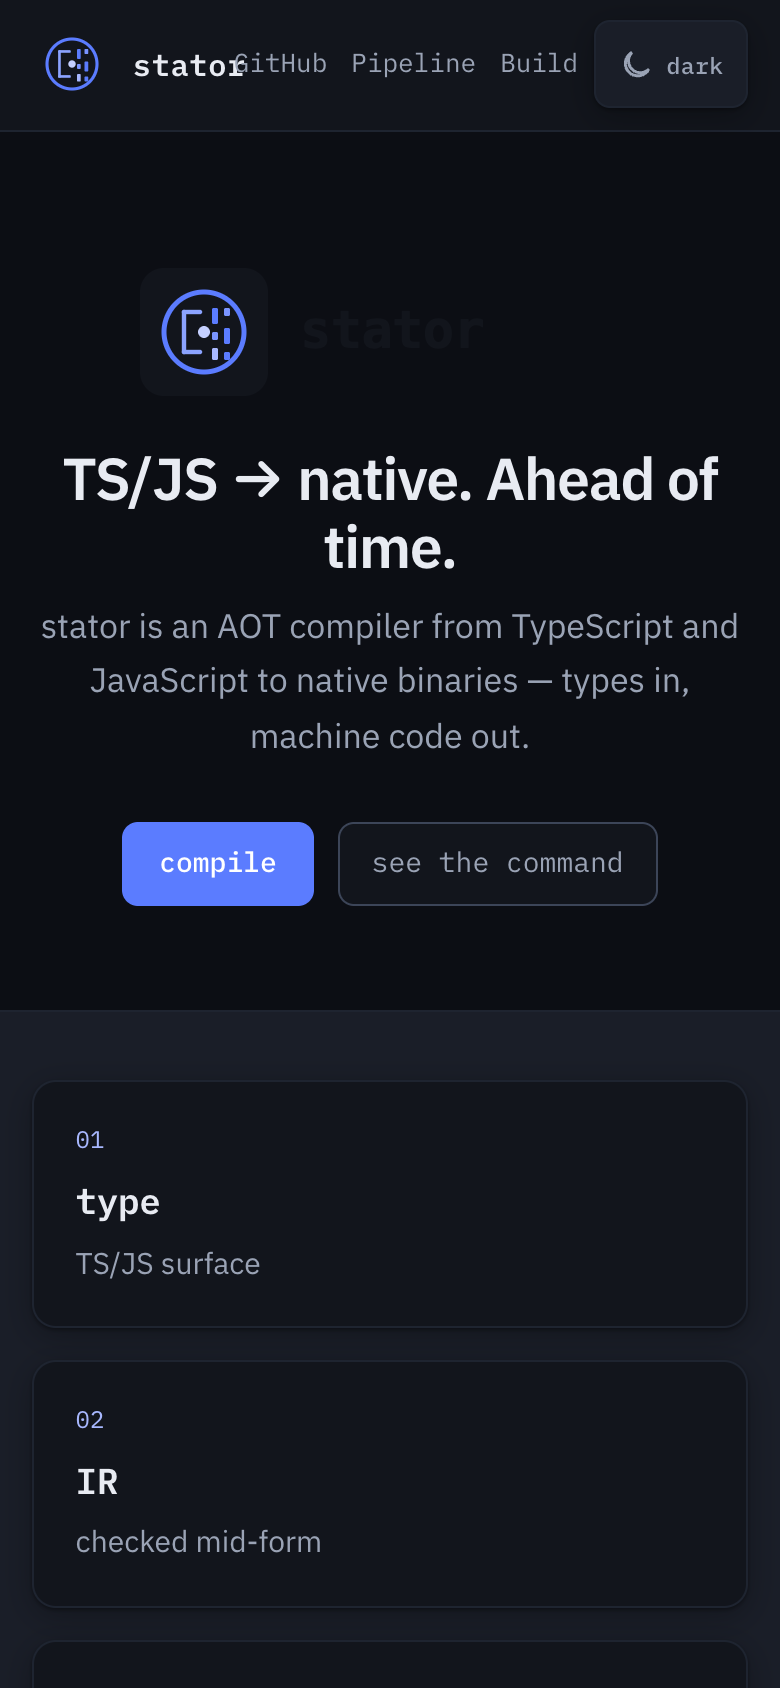
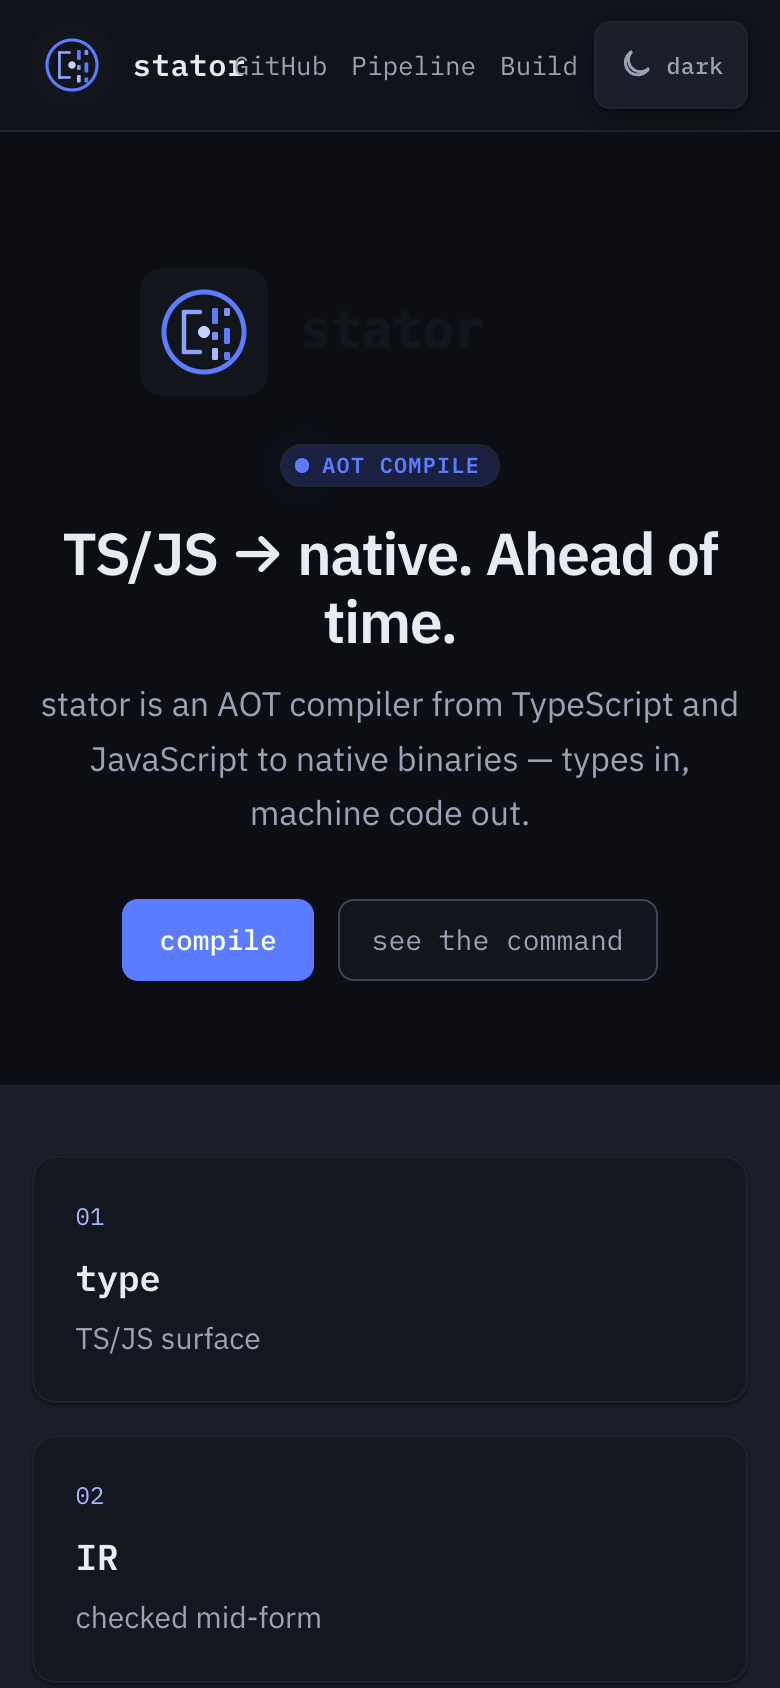
docs: landing-v1 screenshots + nerd+ai+glass+flat lock in DESIGN

diff --git a/docs/brand/tokens.css b/docs/brand/tokens.css
@@ -1,6 +1,9 @@
+/* stator brand tokens — keep site/src/styles/tokens.css in sync. */
 /* stator — electric indigo-blue + cool gray */
+/* Explicit light + default :root (before boot / no preference). */
 :root,
 [data-theme="light"] {
+  color-scheme: light;
   --st-bg: #F5F6F9;
   --st-bg-elevated: #FFFFFF;
   --st-surface-1: #EBEDF2;
@@ -23,6 +26,12 @@
   --st-code-bg: #12151C;
   --st-code-fg: #A8B8FF;
   --st-shadow: 0 1px 2px rgba(18, 21, 28, 0.06), 0 4px 12px rgba(18, 21, 28, 0.04);
+  --st-focus-ring: 0 0 0 3px rgba(91, 124, 255, 0.4);
+  --st-glass-fill: rgba(255, 255, 255, 0.72);
+  --st-glass-border: rgba(216, 220, 230, 0.9);
+  --st-elev-1: 0 1px 2px rgba(18, 21, 28, 0.04), 0 1px 3px rgba(18, 21, 28, 0.06);
+  --st-elev-2: 0 4px 12px rgba(18, 21, 28, 0.06), 0 1px 3px rgba(18, 21, 28, 0.04);
+  --st-accent-glow: 0 0 0 3px var(--st-accent-soft), 0 0 18px rgba(91, 124, 255, 0.25);
   --st-radius: 8px;
   --st-radius-lg: 12px;
   --st-font-mono: "IBM Plex Mono", "JetBrains Mono", ui-monospace, monospace;
@@ -30,6 +39,7 @@
 }
 
 [data-theme="dark"] {
+  color-scheme: dark;
   --st-bg: #0C0E14;
   --st-bg-elevated: #12151C;
   --st-surface-1: #1A1E28;
@@ -52,4 +62,81 @@
   --st-code-bg: #080A10;
   --st-code-fg: #C5D0FF;
   --st-shadow: 0 1px 2px rgba(0, 0, 0, 0.35), 0 4px 16px rgba(0, 0, 0, 0.28);
+  --st-focus-ring: 0 0 0 3px rgba(91, 124, 255, 0.45);
+  --st-glass-fill: rgba(18, 21, 28, 0.72);
+  --st-glass-border: rgba(30, 36, 48, 0.9);
+  --st-elev-1: 0 1px 2px rgba(0, 0, 0, 0.35), 0 1px 3px rgba(0, 0, 0, 0.25);
+  --st-elev-2: 0 4px 14px rgba(0, 0, 0, 0.4), 0 1px 3px rgba(0, 0, 0, 0.3);
+  --st-accent-glow: 0 0 0 3px var(--st-accent-soft), 0 0 20px rgba(91, 124, 255, 0.32);
+}
+
+/* System preference when data-theme is "system" or unset (before FOUC boot). */
+@media (prefers-color-scheme: dark) {
+  :root:not([data-theme="light"]):not([data-theme="dark"]),
+  [data-theme="system"] {
+    color-scheme: dark;
+    --st-bg: #0C0E14;
+    --st-bg-elevated: #12151C;
+    --st-surface-1: #1A1E28;
+    --st-surface-2: #242936;
+    --st-surface-3: #303848;
+    --st-border: #3C4558;
+    --st-border-hairline: #1E2430;
+    --st-fg: #E8EBF2;
+    --st-fg-muted: #9AA3B5;
+    --st-fg-subtle: #646E82;
+    --st-accent: #5B7CFF;
+    --st-accent-hover: #8BA3FF;
+    --st-accent-muted: #3D5CE5;
+    --st-accent-soft: #1A2040;
+    --st-cool: #A8B8FF;
+    --st-success: #5BBF7A;
+    --st-warning: #E8A05C;
+    --st-danger: #E07068;
+    --st-info: #7A94FF;
+    --st-code-bg: #080A10;
+    --st-code-fg: #C5D0FF;
+    --st-shadow: 0 1px 2px rgba(0, 0, 0, 0.35), 0 4px 16px rgba(0, 0, 0, 0.28);
+    --st-focus-ring: 0 0 0 3px rgba(91, 124, 255, 0.45);
+  --st-glass-fill: rgba(18, 21, 28, 0.72);
+  --st-glass-border: rgba(30, 36, 48, 0.9);
+  --st-elev-1: 0 1px 2px rgba(0, 0, 0, 0.35), 0 1px 3px rgba(0, 0, 0, 0.25);
+  --st-elev-2: 0 4px 14px rgba(0, 0, 0, 0.4), 0 1px 3px rgba(0, 0, 0, 0.3);
+  --st-accent-glow: 0 0 0 3px var(--st-accent-soft), 0 0 20px rgba(91, 124, 255, 0.32);
+  }
+}
+
+@media (prefers-color-scheme: light) {
+  :root:not([data-theme="light"]):not([data-theme="dark"]),
+  [data-theme="system"] {
+    color-scheme: light;
+    --st-bg: #F5F6F9;
+    --st-bg-elevated: #FFFFFF;
+    --st-surface-1: #EBEDF2;
+    --st-surface-2: #DDE1EA;
+    --st-surface-3: #CCD2DE;
+    --st-border: #B4BBC9;
+    --st-border-hairline: #D8DCE6;
+    --st-fg: #12151C;
+    --st-fg-muted: #4A5160;
+    --st-fg-subtle: #787F90;
+    --st-accent: #3D5CE5;
+    --st-accent-hover: #2E4ACC;
+    --st-accent-muted: #5B7CFF;
+    --st-accent-soft: #E8ECFF;
+    --st-cool: #8BA3FF;
+    --st-success: #2F7A4A;
+    --st-warning: #C87941;
+    --st-danger: #C0403A;
+    --st-info: #3D5CE5;
+    --st-code-bg: #12151C;
+    --st-code-fg: #A8B8FF;
+    --st-shadow: 0 1px 2px rgba(18, 21, 28, 0.06), 0 4px 12px rgba(18, 21, 28, 0.04);
+    --st-focus-ring: 0 0 0 3px rgba(91, 124, 255, 0.4);
+  --st-glass-fill: rgba(255, 255, 255, 0.72);
+  --st-glass-border: rgba(216, 220, 230, 0.9);
+  --st-elev-1: 0 1px 2px rgba(18, 21, 28, 0.04), 0 1px 3px rgba(18, 21, 28, 0.06);
+  --st-elev-2: 0 4px 12px rgba(18, 21, 28, 0.06), 0 1px 3px rgba(18, 21, 28, 0.04);
+  --st-accent-glow: 0 0 0 3px var(--st-accent-soft), 0 0 18px rgba(91, 124, 255, 0.25);
+  }
 }

diff --git a/docs/brand/DESIGN.md b/docs/brand/DESIGN.md
@@ -6,6 +6,9 @@
 
 Identity: electric indigo-blue + cool gray. Not neon purple; calm engineering blue.
 
+
+**Shared visual lock (Listepo landing v1):** **nerd + ai + glass + flat** — same family as ketch brand v1. IBM Plex Mono eyebrows/labels/chips, hairline borders, mono CLI cards; subtle agent/compute cues (soft accent glow, gradient hairline, status chips) using **indigo `#5B7CFF` only** (no purple AI gradients); translucent glass panels with `backdrop-filter` plus opaque `@media (prefers-reduced-transparency: reduce)` fallbacks; flat CTAs, 4/8pt spacing, surface ladder, radii 8–12.
+
 ## Colors
 
 ### Light
